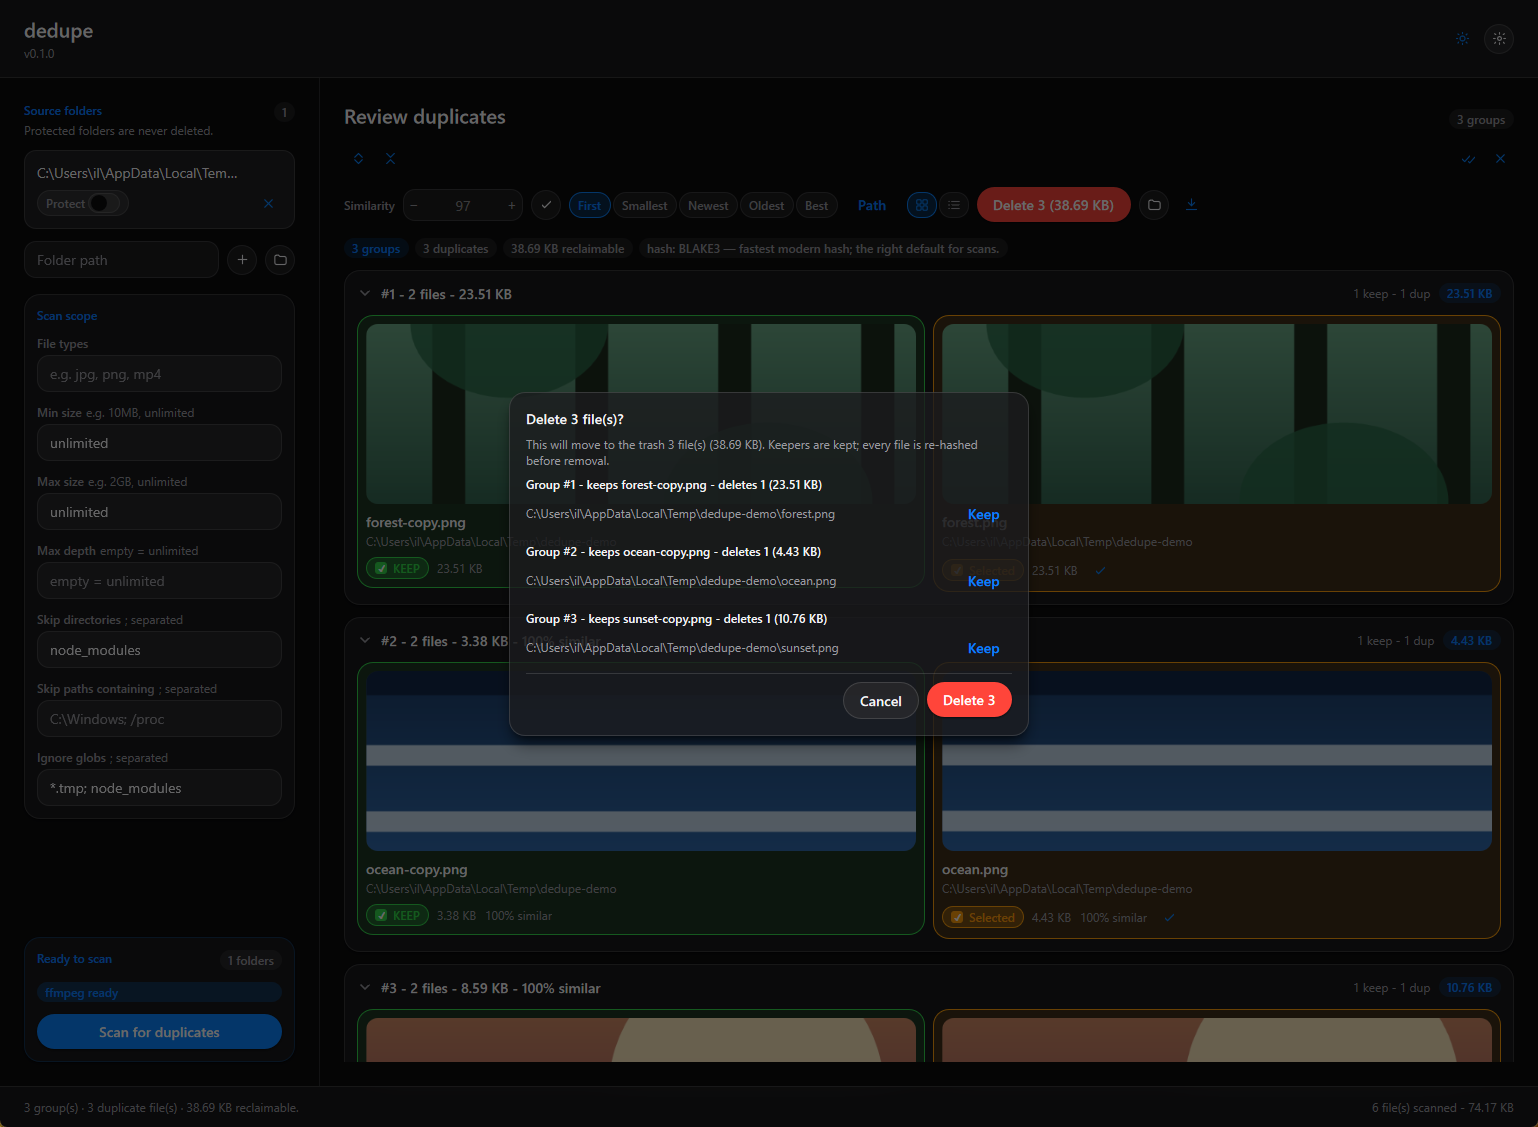
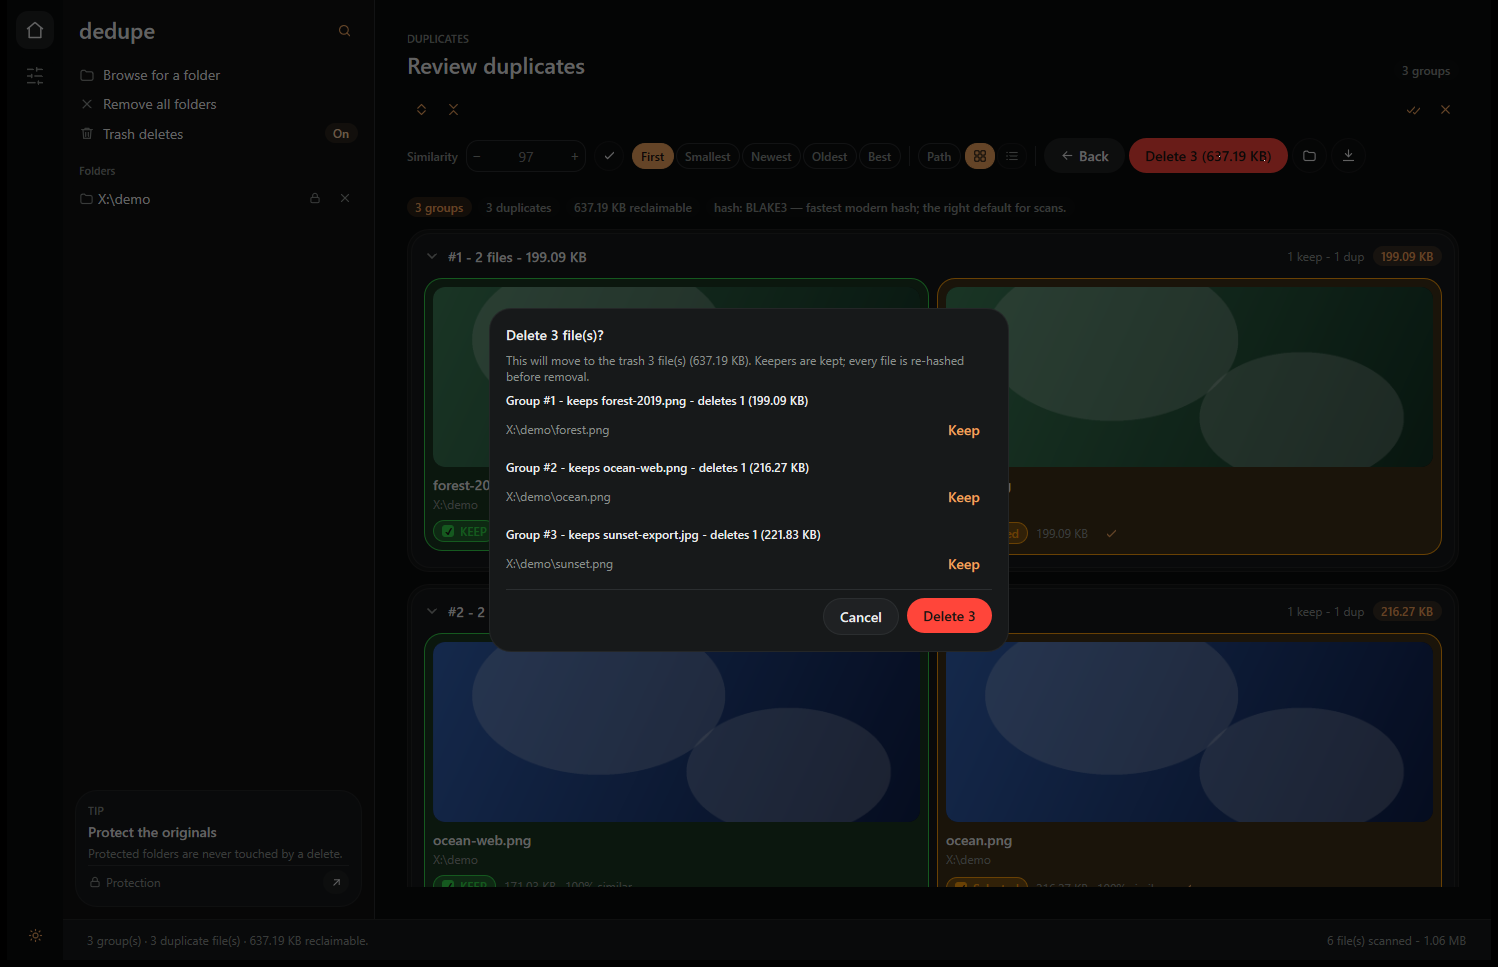
Docs: rewrite the README and refresh the screenshots
The old README documented the tool as a dense wall of flags and the
screenshots still showed the previous blue UI. Tighten the copy to what
the app does today and capture the current warm theme instead.

diff --git a/README.md b/README.md
@@ -1,145 +1,124 @@
 # dedupe
 
-<img src="assets/icons/logo.png" alt="dedupe logo" width="96">
+<img src="assets/icons/logo.png" alt="dedupe logo" width="88">
 
-Finds duplicate files — exact copies and similar-looking photos/videos.
+Finds duplicate files — exact copies, and the same photo or video saved twice in a
+different format.
 
-- **Exact duplicates** — same bytes. Copies, renames, backups.
-- **Similar duplicates** (on by default) — same picture, different format (`.png` vs `.jpg`, `.mp4` vs `.mov`). Disable with `--exact`.
-
-No install. Windows, macOS, Linux.
+Windows, macOS and Linux. One binary: open the desktop app, or run a scan from the
+terminal.
 
 ## Screenshots
 
-| Light | Dark | Delete confirm |
+| Light | Dark | Before deleting |
 | --- | --- | --- |
-| ![GUI in light theme](docs/gui-light.png) | ![GUI in dark theme](docs/gui-dark.png) | ![Delete confirmation dialog](docs/gui-delete-confirm.png) |
+| ![The desktop app in light mode](docs/gui-light.png) | ![The desktop app in dark mode](docs/gui-dark.png) | ![The delete confirmation dialog](docs/gui-delete-confirm.png) |
 
-## Features
+## What it finds
 
-### Exact detection
+- **Exact duplicates** — same bytes, whatever the file is called or wherever it sits.
+- **Similar media** (on by default) — the same picture re-saved as `.png` or `.jpg`,
+  the same clip re-encoded to `.mov`. Turn it off with `--exact`.
+- **Disk clutter** — empty files and folders, temp files, broken symlinks,
+  mislabelled extensions, bad names, the biggest files in a folder, duplicate
+  folders, and duplicate music.
 
-- Size → partial-hash (32 KB head + 32 KB tail) → full-hash; only shared sizes/hashes proceed.
-- Hash via `blake3` (default), `sha256`, or `md5`; files ≤ 64 KB hashed whole.
-- Hard links count once (up to 2000 files per size group); parallel hashing with `--jobs N` (`0` = auto, all-but-one core).
+## Desktop app
 
-### Similar media (perceptual, on by default)
+Run `dedupe` with no arguments (or `dedupe --gui`).
 
-- Images: 256-bit dHash over a 17×16 thumbnail by default; `--image-hash phash|ahash|color` switches the fingerprint family (`auto` keeps dHash for compatibility).
-- Videos: 8 frames via `ffmpeg` (fast pass ≤ 90 s, seeks above), symmetric sequence match ±2 frames.
-- `--partial-clips` also finds a shorter clip contained inside a longer one (`--partial-similarity PCT`, default `85`).
-- `--similarity PCT` tunes threshold (default `97`); `--exact` disables the pass.
-- Bucketed by aspect ratio (images) / resolution (videos, duration-checked at match time); deterministic star clustering, no chained groups.
+1. Pick a folder on the left and press **Scan**.
+2. Results are grouped by content. Green **KEEP** is the copy that stays, amber
+   **Selected** is ticked for deletion.
+3. **Delete** shows exactly what is going to go, group by group, then moves it to
+   the trash. **Stop** cancels a scan instantly.
 
-### Cleanup modes
+Folders can be marked as **protected** so nothing inside them is ever deleted.
+The keep rule (First / Smallest / Newest / Oldest / Best quality) can be changed
+without rescanning, and **Consolidate** gathers one copy of every group into a
+folder of your choosing. Settings also cover the scan type, match mode, image
+fingerprint and partial clips; light/dark and your preferences persist between
+runs.
 
-`--find` scans for one problem at a time instead of hashing duplicates:
-
-- `empty-files`, `empty-dirs`, `big-files` (`--top N`, default 50), `temp-files`
-- `invalid-symlinks`, `broken-files` (undecodable images / unplayable media)
-- `bad-extensions` (extension does not match the file's magic bytes)
-- `bad-names` (reserved names, invalid characters, trailing dots/spaces)
-- `duplicate-folders` (identical directory trees by content signature)
-- `music` — duplicate tracks by embedded tags (`--music-by tags`) or audio fingerprints (`--music-by content`)
-
-Findings honour `--ignore GLOB` (repeatable), `--types`, size limits, depth and the exclude flags. Actions: `--delete` / `--trash` / `--dry-run`; `duplicate-folders` is report-only.
-
-### Flexible matching
-
-`--match size|name|fuzzy` groups by content (default), size only, exact base name, or fuzzy base name (`--fuzzy-threshold PCT`, default `85`). Name matching ignores copy suffixes such as `- Copy (2)`.
-
-### Safe deletion
-
-- Every file re-hashed before removal; changed files are skipped, never deleted.
-- `--trash` recovers via system trash; `--dry-run` only lists (per-group subtotals included); prompts per group (`y/n/a/q`) unless `-y`.
-- `--move-dir DIR` moves duplicates to a quarantine folder instead of deleting; `--hardlink` replaces duplicates with hard links to the keeper and reports bytes saved.
-- `--strip-exif` removes EXIF/XMP metadata from JPEG and PNG images in place (dry-run unless `-y`).
-- `--reference-dir PATH` (repeatable) never deleted and always keeps; keeper is smallest path by default, or `--keep-smaller` / `--keep-newest` / `--keep-oldest` / `--keep-best-quality` (highest resolution, then longest duration, then largest file).
-- `--consolidate-dir DIR` gathers each group's keeper into one folder (flattened, collisions gain a ` (2)` suffix; reference keepers stay put). Every keeper is re-hashed before moving.
-
-### Scope, reports, cache
-
-- Scan files/dirs; filter with `--types`, `--min-size`/`--max-size`, `--max-depth`, `--exclude-dir`/`--exclude-path`, `--ignore GLOB`.
-- Human report (`✓ KEEP` / `✗ DUP` / `◈ REF`) or `--json`; `--verbose` adds codec metadata, `--quiet` silences progress.
-- Export alongside the normal report: `--csv FILE` and `--html FILE` (mode findings and duplicate groups).
-- Caches in `~/.dedupe/` (`hashes.bin` ≥ 256 KB files, `fingerprints.bin`), keyed by size+mtime; `--no-cache` bypasses, `--clear-cache` wipes them (Settings page in the GUI too).
-- Optional `ffprobe`/`ffmpeg` add resolution/duration/codec and video comparison; everything else works without them.
-
-### GUI
+## Command line
 
 ```sh
-dedupe         # no arguments: opens the desktop app
-dedupe --gui   # same, explicit
+dedupe ~/Pictures                          # scan and report
+dedupe ~/Photos --delete --trash           # review each group, then delete
+dedupe /incoming --reference-dir /backup -Dy   # no prompts, keep the references
+dedupe ~/photos --consolidate-dir ~/sorted -y  # gather one copy of everything
+dedupe ~/photos --move-dir D:\quarantine -y    # move duplicates aside instead
+dedupe ~/photos --hardlink -y              # replace copies with hard links
+dedupe ~/photos --strip-exif -y            # strip EXIF/XMP in place
+dedupe ~/downloads --find empty-dirs -D -y # cleanup scan
+dedupe ~/music --find music --music-by content
+dedupe ~/photos --match fuzzy --fuzzy-threshold 90
+dedupe ~/photos --csv report.csv --html report.html
 ```
 
-One binary for both surfaces: any argument or flag (`dedupe --help`, `dedupe <path>...`) runs a CLI scan instead.
+Useful flags:
 
-Opening the GUI never shows a terminal on any OS: on Windows the binary links as a GUI-subsystem app, so no console window is created (CLI runs re-attach to the terminal that launched them), on macOS the release ships a `dedupe.app` bundle to double-click, and on Linux the release ships a `dedupe.desktop` launcher with `Terminal=false`.
+| Flag | What it does |
+| --- | --- |
+| `--find MODE` | Cleanup mode: `empty-files`, `empty-dirs`, `big-files`, `temp-files`, `invalid-symlinks`, `broken-files`, `bad-extensions`, `bad-names`, `duplicate-folders`, `music` |
+| `--match` | Group by `content` (default), `size`, `name` or `fuzzy` |
+| `--similarity PCT` | How close two images/videos must be (default 97) |
+| `--image-hash` | `auto` (dHash), `phash`, `ahash` or `color` |
+| `--partial-clips` | Also match a short clip found inside a longer one |
+| `--trash` / `--dry-run` | Trash instead of deleting; or only list what would go |
+| `--reference-dir` | Never delete anything in here (repeatable) |
+| `--jobs N` | Worker threads (`0` = all but one core) |
+| `--json` / `--csv` / `--html` | Machine-readable, spreadsheet or shareable report |
 
-- Same pipeline as CLI; opens when no path given; pick folders, **Scan**, tick, **Delete N** — which opens a per-group confirmation listing exactly what goes — then confirm (trash by default; the tooltip carries the total bytes). **Stop** (replaces Scan while running) cancels instantly — the view resets right away and the pipeline winds down in the background.
-- Settings → Preferences picks the scan type (duplicates or a cleanup mode), duplicate matching (`content`/`size`/`name`/`fuzzy`), image fingerprint, partial-clip detection, and music matching. Cleanup-mode findings are read-only in the GUI; use the CLI with `--delete` or `--trash` to act on them.
-- **Consolidate** gathers every group's keeper into one folder (two clicks: pick folder, confirm).
-- Per-folder **Protect** (never deleted), **Keep** switch without rescanning (First / Smallest / Newest / Oldest / Best quality), JSON export, light/dark + prefs persisted.
+`dedupe --help` has the full list.
 
-> The GUI is a [Native Shell](https://github.com/longbridge/nsh) app; on Windows it renders through the system Direct2D backend, so the MSVC toolchain Rust already needs is the only requirement.
+## Is my data safe?
 
-## CLI
-
-```sh
-dedupe <path>...                                   # scan
-dedupe /media --delete                             # delete (prompts per group)
-dedupe /incoming --reference-dir /backup -Dy --trash  # safe cleanup, no prompts
-dedupe /photos --consolidate-dir /sorted -y          # gather one copy of everything
-dedupe /photos --move-dir D:\quarantine -y           # move duplicates aside
-dedupe /photos --hardlink -y                         # replace copies with hard links
-dedupe /photos --strip-exif -y                       # remove EXIF/XMP in place
-dedupe /downloads --find empty-dirs --delete -y      # cleanup scan
-dedupe /music --find music --music-by content        # duplicate tracks by audio
-dedupe /photos --match fuzzy --fuzzy-threshold 90    # near-identical names
-dedupe /photos --csv report.csv --html report.html   # export the report
-```
-
-Flags: `--find` · `--match` · `--fuzzy-threshold` · `--top` · `--image-hash` · `--partial-clips` · `--partial-similarity` · `--music-by` · `--csv` · `--html` · `--move-dir` · `--hardlink` · `--strip-exif` · `--ignore` · `--types` · `--keep-smaller`/`--keep-newest`/`--keep-oldest`/`--keep-best-quality` · `--reference-dir` · `--consolidate-dir` · `--trash` · `--dry-run` · `--exact` · `--similarity` · `--no-cache` · `--clear-cache` · `--jobs` · `-y` · `--json` · `--verbose` · `--quiet`. Full list: `dedupe --help`.
+- Every file is re-hashed immediately before it is removed; anything that changed
+  meanwhile is skipped.
+- Nothing is deleted without a per-group prompt unless you pass `-y`, and
+  `--trash` puts files in the system trash where it can be restored.
+- `--dry-run`, `--move-dir` and `--hardlink` give you ways to clean up without
+  losing anything.
+- Re-scans are fast: unchanged files are skipped using the size + mtime caches in
+  `~/.dedupe/`. `--no-cache` rebuilds them, `--clear-cache` wipes them.
 
 ## Build
 
 ```sh
 .\build.ps1            # Windows: release binary copied to .\dedupe.exe
-cargo build --release  # any OS (same single binary)
+cargo build --release  # any OS
 ```
 
-Needs Rust; optional FFmpeg for media metadata + video comparison. The one binary launches the desktop app with no arguments and runs CLI scans when given arguments or flags.
+Rust is the only requirement. FFmpeg is optional — it adds resolution, duration
+and codec info, plus video comparison; everything else works without it.
 
-Release archives: Windows ships `dedupe.exe`, Linux the bare binary plus a `dedupe.desktop` launcher (put the binary on `PATH` or point `Exec=` at it), and macOS a `dedupe.app` bundle next to the bare binary (double-click the app for the GUI, or run the binary for the CLI).
+Release downloads: `dedupe.exe` on Windows, the bare binary plus a `dedupe.desktop`
+launcher on Linux, and a `dedupe.app` bundle next to the binary on macOS. The GUI
+never opens a terminal window on any platform.
 
 ## How it works
 
-Shared pipeline (`pipeline::run_scan`): Scanning → Hashing → Comparing media → Building report.
+1. Walk the paths, apply the type/size/depth/exclude filters.
+2. Group by size, collapse hard links, then partial-hash and fully hash what is
+   left (`blake3` by default).
+3. Fingerprint the remaining images and videos (dHash on a 17×16 thumbnail; 8
+   frames for video) and cluster them at the similarity threshold.
+4. Report what can be reclaimed, or delete it after a re-hash.
 
-1. Walk paths, apply `--types`/size/depth/exclude filters; record unreadable paths without aborting.
-2. Group by size; collapse hard links; partial-hash survivors, keep shared buckets.
-3. Full-hash survivors (cache-assisted); identical hashes form exact groups, keeper picked, `ffprobe` metadata attached.
-4. Similar pass: leftovers plus each exact group's keeper are bucketed and fingerprinted (dHash / 8 video frames), then star-clustered at `--similarity`; a rescaled or re-encoded variant merges into its byte-identical group instead of forming a separate one, and per-member content hashes are stored.
-5. Print human/JSON with reclaimable bytes; on `--delete`, prompt then re-hash and delete (trash/permanent).
-
-Repeat scans skip unchanged files via size+mtime caches (`hashes.bin`, `fingerprints.bin`).
-
-## Tests
+## Development
 
 ```sh
 cargo test
 cargo clippy --all-targets
 ```
 
-## Git hooks
-
-Pre-commit checks run via [prek](https://prek.j178.dev/) (fast `pre-commit`
-alternative): `cargo fmt`, `cargo clippy`, plus whitespace/file hygiene —
-same checks as CI (`prek.toml`).
+Commits run `cargo fmt`, `cargo clippy` and file hygiene checks through
+[prek](https://prek.j178.dev/), the same ones CI uses (`prek.toml`):
 
 ```sh
-prek install            # run checks automatically on `git commit`
-prek run --all-files    # run all checks on demand
+prek install          # check automatically on commit
+prek run --all-files  # check everything now
 ```
 
 ## License
